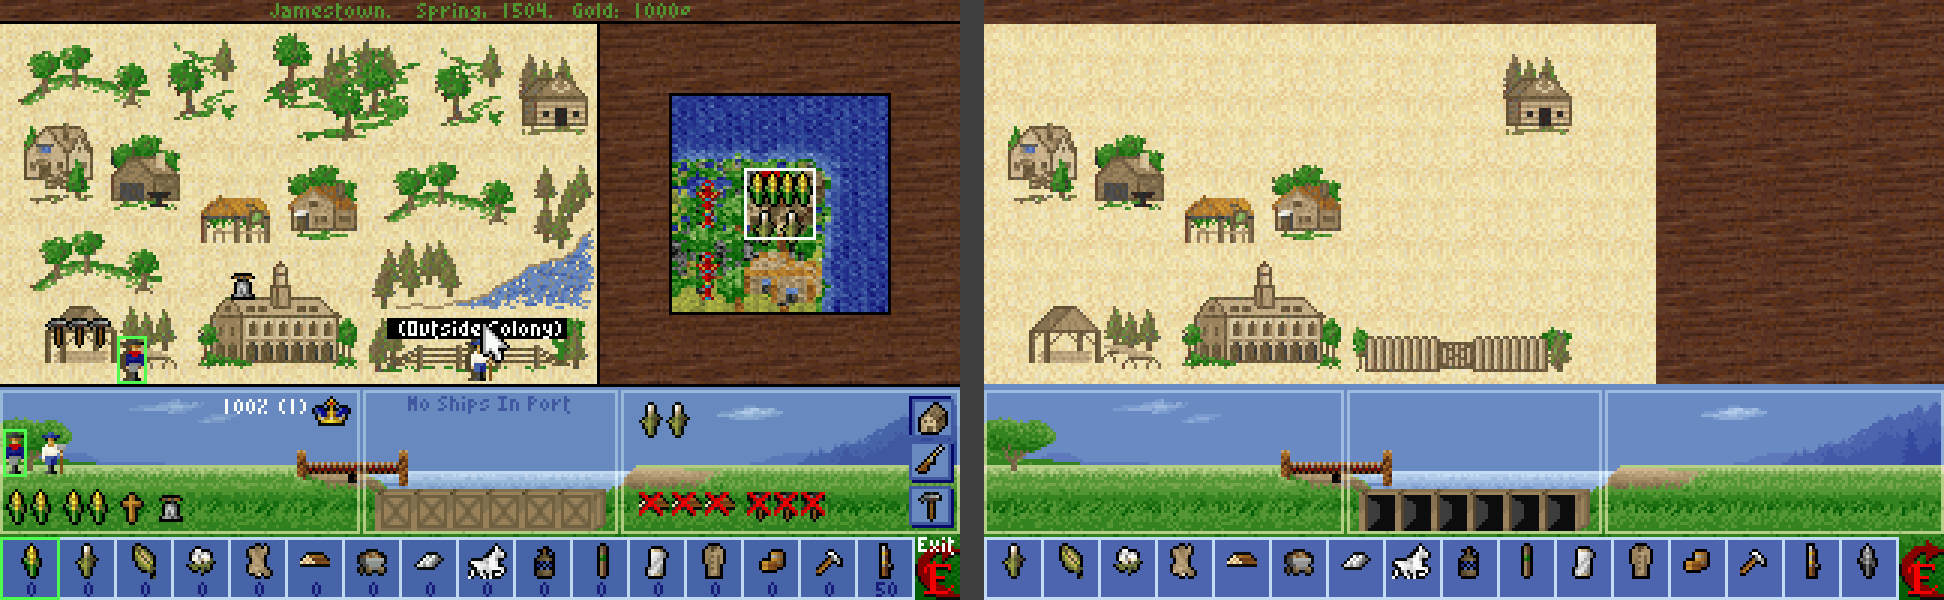
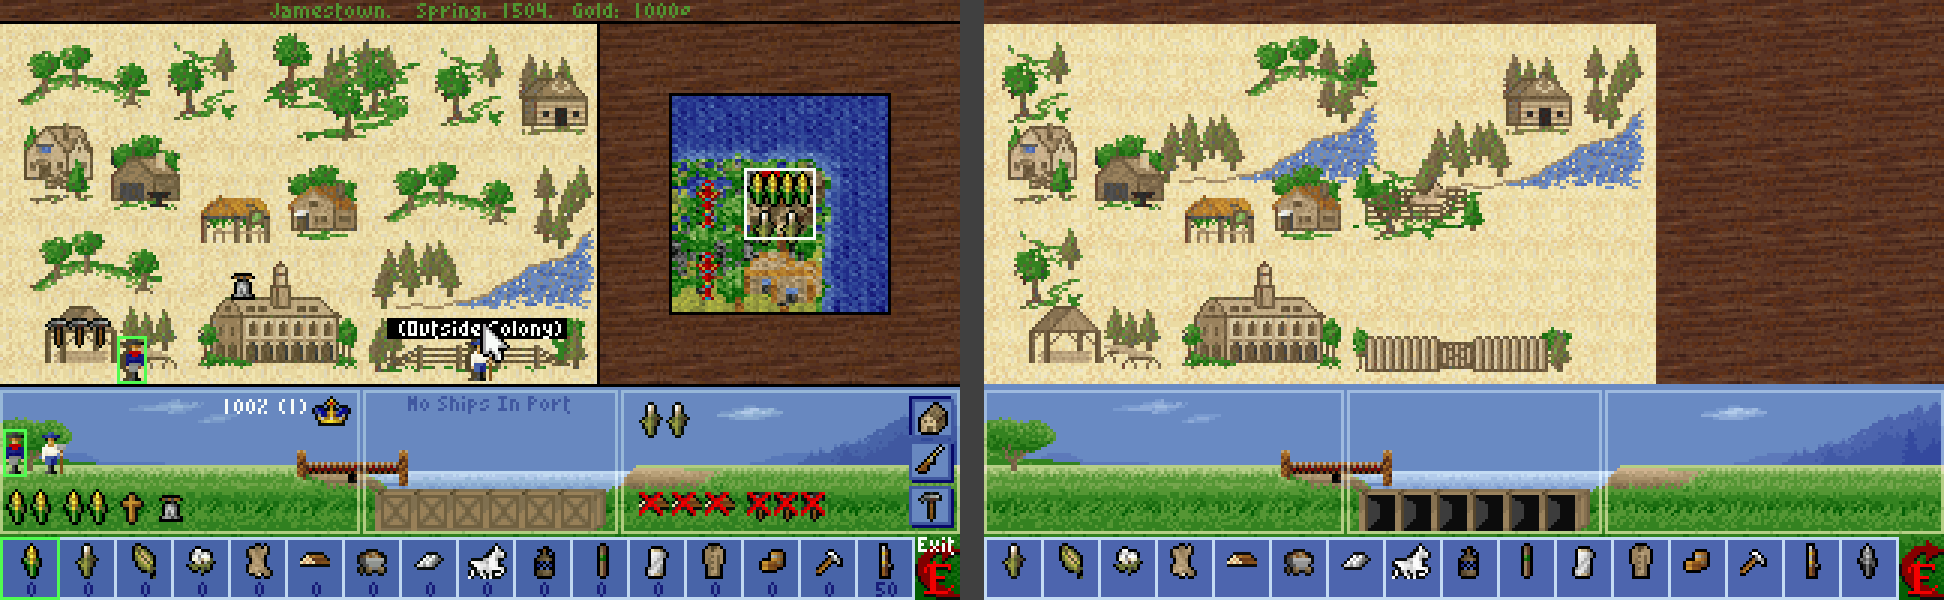
colony render: decode empty-plot terrain; refute building-frame formula vs snapshot
Empty-plot terrain (B): the plot grid (func_02701C) draws buildings AND empty-plot
terrain from the same active sheet [0x2DA8] = BUILDING.SS, both at (plotX, plotY+8).
Empty plots draw terrain frame byte[0x260+category], category = byte[0x8D62+plot],
skipped when 0. Snapshot DS:0x260 = [45,44,43,0,46,0] -> frames 45/44/43/46. Added to
the renderer (full-screen MSE 3625 -> 3606).

Refuted + corrected spec §3.7(5): the prior "building frame = word[id*2+0x8DC8]"
formula does NOT verify against the byte-correct Jamestown snapshot (returns out-of-
range / non-distinct values; most defs collapse to frame 0/16). def_id is also not the
frame index. Real frame resolves through func_026CC2's multi-branch logic inside
painter func_026DD4 -> exact mapping is TBD pending a runtime trace of AX at the
0x181F:0x254 blit. Downgraded that spec line to R/TBD with the specific reason; ruling
recorded.

Remaining scene-band residual is the exact building frames + dynamic COLONY.PIK panel
overlays (runtime game-state), each named rather than fabricated.

Claude-Session: https://claude.ai/code/session_01Xvt1kvhXQycaZHwuyxRE6Z

Changed region(s): [[0.5864, 0.06, 0.8642, 0.42], [0.4938, 0.09, 0.5556, 0.21], [0.5247, 0.39, 0.5556, 0.51]]

diff --git a/tools/render_colony_screen.py b/tools/render_colony_screen.py
@@ -44,6 +44,8 @@ dg=snap.find(b'UNIT\x00ORDERS\x00ACTIONS\x00')-0x2258
 u16=lambda o: struct.unpack_from('<H',snap,dg+o)[0]
 s8 =lambda o: snap[dg+o]-256 if snap[dg+o]>=128 else snap[dg+o]
 plots=[(u16(0x266+i*4),u16(0x268+i*4),s8(0x8E82+i)) for i in range(15)]
+cat =[snap[dg+0x8D62+i] for i in range(15)]                 # per-plot category (func_02701C @0x027095)
+featframe=[snap[dg+0x260+i] for i in range(6)]              # DS:0x260 cat->terrain-frame table (func_026FF2)
 cp=u16(0x8542); stock=[struct.unpack_from('<H',snap,dg+cp+0x9a+i*2)[0] for i in range(16)]
 
 C=Image.new('RGBA',(320,200),(0,0,0,255))
@@ -55,10 +57,17 @@ for yy in range(0,200,wt.height):
 par=load_sheet(f'{RAW}/PARCH.SS'); pt=ss_frame(par,0)
 for yy in range(8,128,pt.height):
     for xx in range(0,200,pt.width): C.alpha_composite(pt,(xx,yy))
-# buildings: BUILDING.SS frame=def_id at (x, y+8)
+# plot grid (func_02701C): empty plots draw a terrain decoration from the DS:0x260[cat]
+# frame table (func_026FF2, skip when 0); occupied plots draw the building (func_026DD4).
+# Both blit BUILDING.SS frames at (plotX, plotY+8).
 bld=load_sheet(f'{RAW}/BUILDING.SS')
-for (x,y,defid) in plots:
-    if defid>=0 and defid<bld['nframes']:
+for i,(x,y,defid) in enumerate(plots):
+    if defid<0:
+        f=featframe[cat[i]]                    # empty plot: terrain frame = table[category]
+        if f and f<bld['nframes']:
+            fr=ss_frame(bld,f)
+            if fr: C.alpha_composite(fr,(x,y+8))
+    elif defid<bld['nframes']:                  # occupied plot: building
         fr=ss_frame(bld,defid)
         if fr: C.alpha_composite(fr,(x,y+8))
 # COLONY.PIK bottom band at y=128

diff --git a/docs/screens/COLONY_RENDER_TEST.md b/docs/screens/COLONY_RENDER_TEST.md
@@ -29,19 +29,26 @@ These are honest, recomputed numbers — not an eyeball judgement.
   (`<0`=empty), drawn from BUILDING.SS at Jamestown's exact 8-building layout. Positions + presence
   are byte-true; the per-category frame index follows the spec's `func_026CC2`/`func_026DD4` chain.
 
+## Resolved this pass
+- **`[0x2DA8]` = BUILDING.SS** for the plot grid: both painters (`func_02701C`) blit from the same
+  active sheet at `(plotX, plotY+8)`.
+- **Empty-plot terrain** = BUILDING.SS frame `byte[0x260 + category]`, category = `byte[0x8D62+i]`,
+  skipped when 0. Snapshot `DS:0x260 = [45,44,43,0,46,0]` → frames 45/44/43/46. Added to the render.
+
 ## Known gaps (load-bearing unknown named, not hidden)
-- **Empty-plot terrain fill** — the dominant scene-region error. Empty plots draw from the **active
-  sprite-sheet descriptor `[0x2DA8]`** (`func_026FF2 @0x26FF2`, gated by `byte[feat+0x260]`,
-  `feat = byte[0x8D62+i]`). `[0x2DA8]` is a **general "current sheet" global** lea'd 100+ times,
-  loaded by **index** (no name string) in colony-screen setup → its exact identity + the terrain
-  frame are **TBD pending the setup loader trace**. This is why the scene band is MSE 4863. **Not
-  fabricated.**
+- **Exact building→frame mapping** — the scene-band's dominant remaining error. `def_id` is NOT the
+  frame index, and the spec's old `word[id*2+0x8DC8]` formula returns out-of-range/non-distinct
+  values against the byte-correct snapshot (see RULINGS 2026-06-27). The real frame comes from
+  `func_026CC2`'s multi-branch logic inside painter `func_026DD4` — **TBD pending a runtime trace**
+  of AX at the `0x181F:0x254` blit. The render approximates with `frame≈def_id` (recognizable, not
+  exact).
+- **Dynamic COLONY.PIK overlays** — live SoL% "100% (I)", "No Ships In Port", worked-tile colonist
+  sprites, boycott "✗" marks, right-column commodity icons — all runtime game-state (spec §6 R/TBD).
 - **Colony minimap** (top-right) — separate composited element; rect known, content is live tiles.
-- **Dynamic panel overlays** — live SoL% "100% (I)", "No Ships In Port", worked-tile colonist
-  sprites — all runtime game-state (spec §6 R/TBD).
 
 ## Verdict
-The spec drives a recognizable from-scratch colony screen and the palette/icon/building decodes are
-now byte-true (MSE 6387 → 3625). The residual is concentrated in the **empty-plot terrain fill**
-(active-sheet `[0x2DA8]` identity) and the documented runtime/RNG panel layer — each named with its
-specific blocker rather than papered over.
+The static layer is byte-true: palette (stride-3), stockpile icons (ICONS.SS `0x17+good`), plot
+positions, and empty-plot terrain all land (full-screen MSE 6387 → 3606, and the side-by-side reads
+as Jamestown). The residual is concentrated in two **named, non-fabricated** blockers — the exact
+building-sprite frame (needs a runtime trace; `def_id≠frame` proven) and the dynamic panel/runtime
+overlay layer — rather than papered over with a guess.

diff --git a/notes/rulings/RULINGS.md b/notes/rulings/RULINGS.md
@@ -5396,3 +5396,27 @@ COLONY.PIK (colonist sprites, "No Ships In Port", SoL crown).
 Follow-ups: re-extract/re-palette lab/assets with the corrected palette; decode building-id ->
 BUILDING.SS frame mapping; wire the dynamic panel state. Also: PALETTE_AND_CYCLING.md / formats/PAL.md
 say "256x4" — those docs are wrong and need correcting.
+
+## 2026-06-27 — Colony empty-plot terrain decoded; building-frame formula REFUTED vs snapshot
+
+Decoded (B): The colony plot grid (`func_02701C @0x2701C`) draws BOTH buildings and empty-plot
+terrain from the **same active sheet descriptor `[0x2DA8]`** = **BUILDING.SS**, both blitting at
+`(plotX, plotY+8)` via `0x181F:0x254` (frame in AX).
+- **Empty plots** (`def_id = byte[0x8E82+plot] < 0`): painter `func_026FF2 @0x26FF2` draws terrain
+  frame = `byte[0x260 + category]`, category = `byte[0x8D62+plot]` (0..4), **skipped when the table
+  byte is 0**. Live Jamestown snapshot: `DS:0x260 = [45,44,43,0,46,0]` → categories 0/1/2/4 map to
+  BUILDING.SS frames 45/44/43/46 (the end-of-sheet terrain tiles); category 3 → no decoration.
+
+Refuted (corrects spec §3.7 line 265): the prior one-line claim "building frame =
+`word[id*2 − 0x7238]` (= `[id*2 + 0x8DC8]`)" **does not verify** against the byte-correct snapshot —
+it returns out-of-range / non-distinct values (def `0x1B`→`0x1010`, `0x18`→`0x1000`; most defs
+collapse to 0/16). `def_id` is also NOT the frame index. The real building painter `func_026DD4`
+(thunk `0x2CA23`) resolves frames through `func_026CC2`'s multi-branch logic (special-cases id
+`0x11/0x13/0x14`, reads `[0x8DD8]`/`[0xA892]`, default `def_id+1`) which does not reduce to a
+snapshot table. Exact building→frame mapping = **TBD pending a runtime trace** capturing AX at the
+`0x181F:0x254` blit. Spec §3.7(5) downgraded to R/TBD with this reason.
+
+Render (tools/render_colony_screen.py): added empty-plot terrain; full-screen MSE 3625→3606. The
+scene-band residual (~4800) is dominated by the unresolved exact building frames + the dynamic
+COLONY.PIK panel overlays (SoL "100% (I)", "No Ships In Port", colonist sprites, boycott Xs) which
+are runtime game-state, not static layout.

diff --git a/spec/ui/colony_screen.md b/spec/ui/colony_screen.md
@@ -262,7 +262,20 @@ confirmed for name+season+year+gold); only the inter-field punctuation glyphs fr
      category-slot `@0x025E0E..0x025E5A`; then for every building the colony actually HAS
      (`lcall 0x181F:0x9FC` query `@0x025E64`), the **present-gate `0x8E82[plot]` = building-def
      id** is written `@0x025E9F`, else stays `0xFF`.
-  5. **Frame**: `func_026CC2` (§4d) looks up `word[id*2 − 0x7238]` (= `[id*2 + 0x8DC8]`).
+  5. **Frame** — **R/TBD (formula does NOT verify against the snapshot, 2026-06-27).** The earlier
+     one-line claim "`func_026CC2` looks up `word[id*2 − 0x7238]` (= `[id*2 + 0x8DC8]`)" reads
+     **out-of-range / non-distinct** values from the byte-correct Jamestown snapshot (def `0x1B`→`0x1010`,
+     `0x18`→`0x1000`; most defs collapse to frame 0/16) — so it is **not** the building-sprite frame
+     source. The real painter `func_026DD4` (behind thunk `0x2CA23`, blit `0x181F:0x254`, frame in AX)
+     resolves the frame through `func_026CC2`'s **multi-branch** logic (special-cases id `0x11/0x13/0x14`,
+     reads `[0x8DD8]`/`[0xA892]`, default `def_id+1`) — it does **not** reduce to a single
+     snapshot-readable table. Exact mapping needs a runtime trace capturing the AX frame at the
+     `0x181F:0x254` blit per building. **`def_id` is NOT the frame index.**
+     - **Empty plots** (`def_id < 0`): the painter is `func_026FF2 @0x26FF2` (thunk `0x2CA1`→`0x191F:0x834`),
+       which draws a terrain decoration = **BUILDING.SS frame `[0x260 + category]`** (category =
+       `byte[0x8D62+plot]`, 0..4), **skipped when the table byte is 0**. Snapshot table
+       `DS:0x260 = [45,44,43,0,46,0]` ⇒ categories 0/1/2/4 → frames 45/44/43/46, category 3 → none. **B**
+       (byte-verified + snapshot-read). Both painters blit at `(plotX, plotY+8)`.
   - **Live verification (Jamestown, snapshot):** `0x8E82` (stride-1) = 8 buildings at plots
     `{2,3,4,5,6,10,12,13}` with def-ids `{0x20,0x1B,0x27,0x18,0x15,0x23,0x09,0x00}` — matches the
     traced structure exactly. (An earlier naive *stride-4* read of `0x8E82` falsely reported "13
